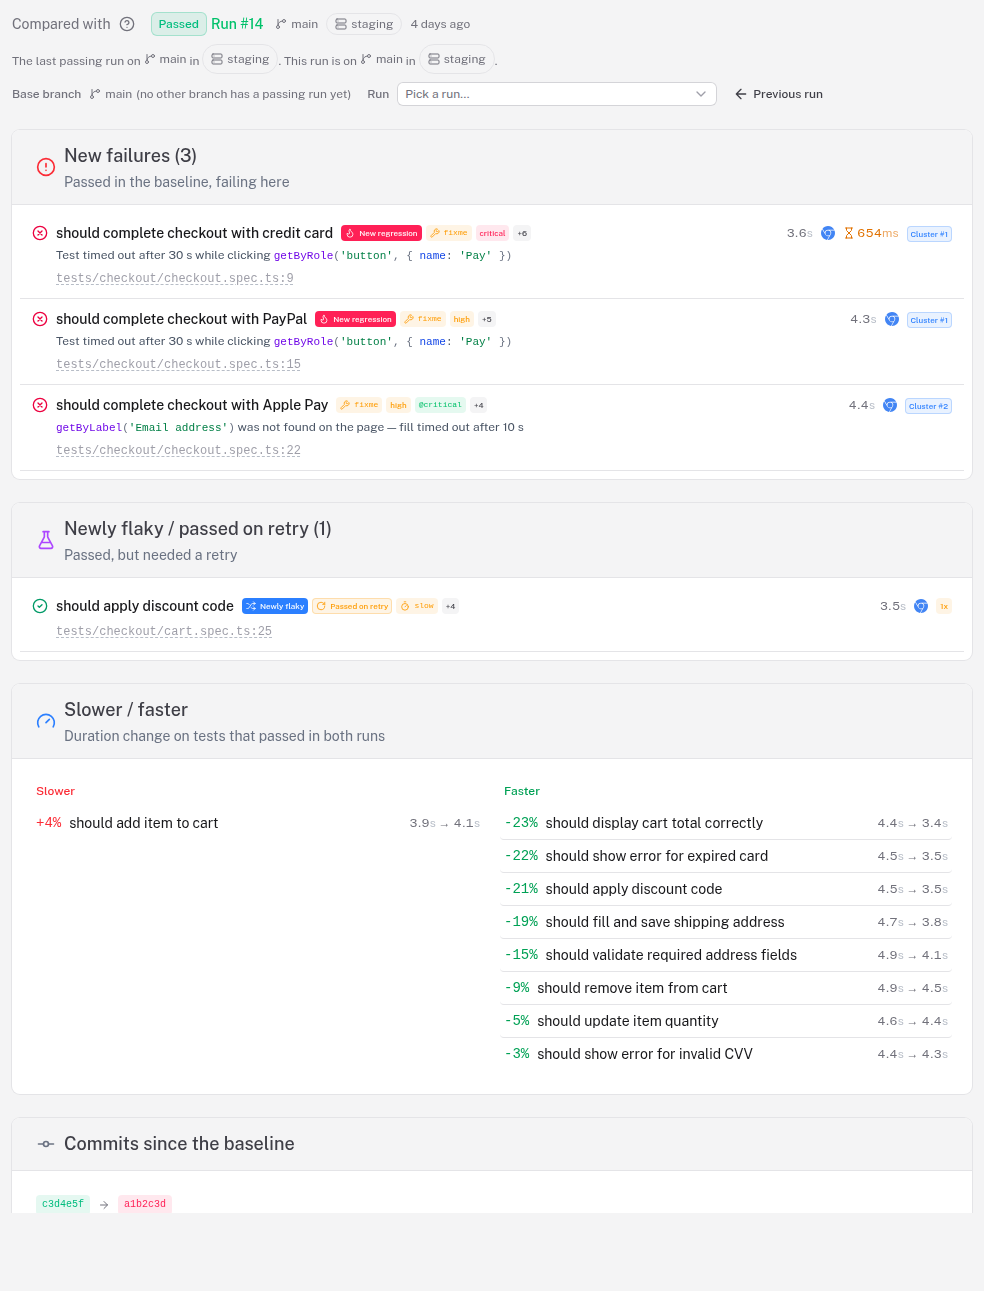
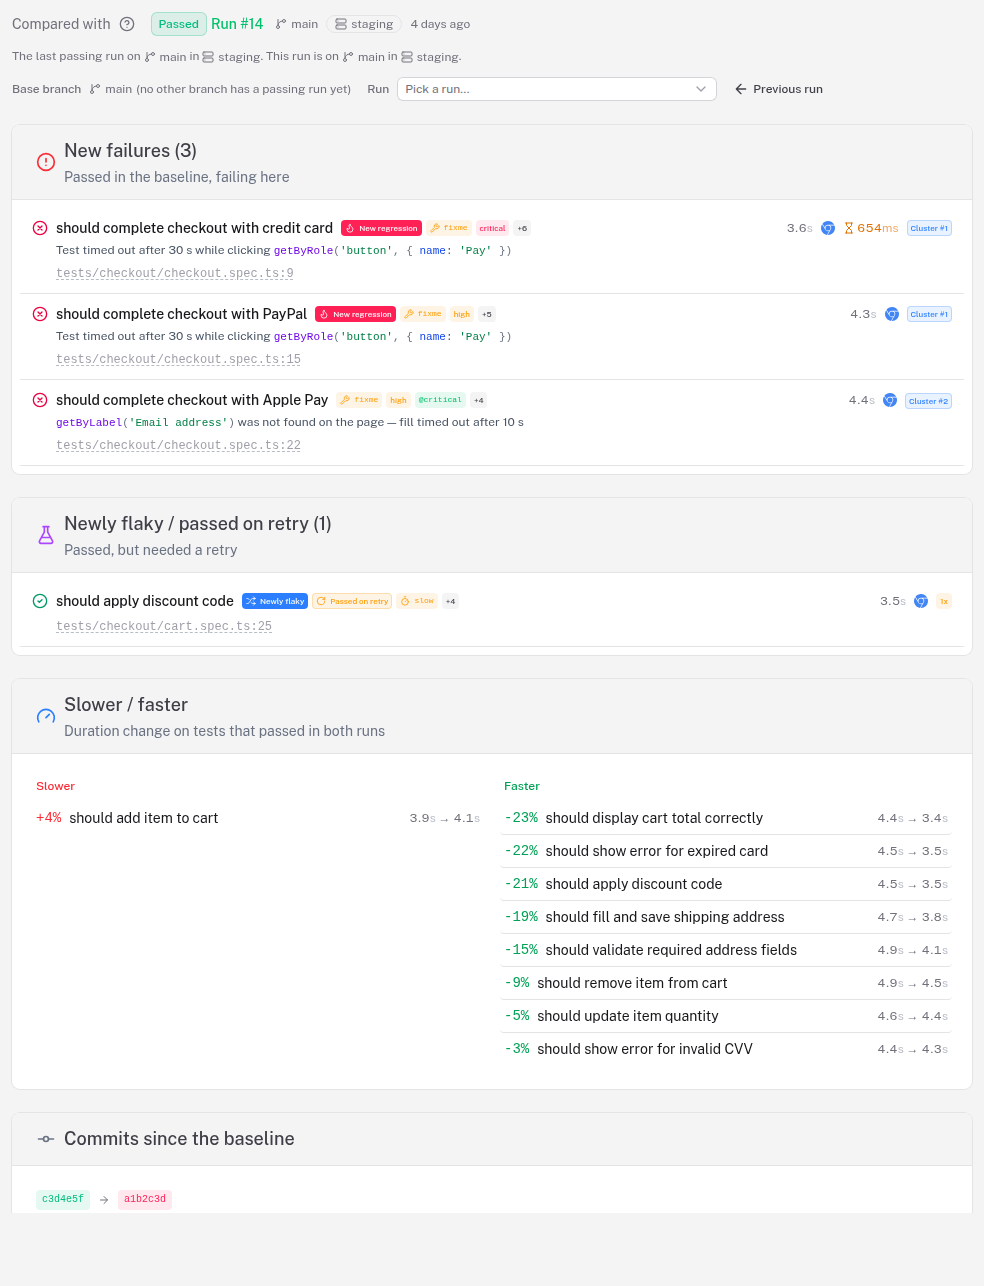
fix(ui): align branch and environment labels inline and copy branch on click
Center the branch and environment labels on the text line (align-middle) so
they stop sitting proud of the surrounding text, and give EnvironmentBadge a
borderless `inline` form used inside the Changes-tab explanation sentence, so
the pill's border no longer breaks the line rhythm or orphans the trailing
period; the outlined pill stays for the structured rows, pickers, tables and
run header. Clicking a branch name now copies it to the clipboard (opt-in
`copyable`, with a check-icon flash and a toast), enabled where the branch is
standalone — the baseline lines, the run header and the execution facts — and
left off inside nav rows and select options.

Claude-Session: https://claude.ai/code/session_017QtmtHPvcNtMF9Lxa1rPZj

diff --git a/apps/application/app/components/run/ChangesView.vue b/apps/application/app/components/run/ChangesView.vue
@@ -255,8 +255,8 @@ function clusterName(tc: TestCaseResult): string | null {
 
     <EmptyState v-else-if="!data?.hasBaseline" icon="i-lucide-git-compare-arrows" text="No baseline run found">
       <p v-if="data?.baseBranch" class="text-sm text-muted max-w-sm text-center">
-        No earlier passing run exists on <BranchLabel :name="data.baseBranch" />. Pick another base branch, or go back
-        to the automatic choice.
+        No earlier passing run exists on <BranchLabel :name="data.baseBranch" copyable />. Pick another base branch, or
+        go back to the automatic choice.
       </p>
       <p v-else class="text-sm text-muted max-w-sm text-center">
         Changes compare this run against the last passing run in the same environment — on the same branch, then the
@@ -308,19 +308,20 @@ function clusterName(tc: TestCaseResult): string | null {
             Run #{{ data.baseline!.id }}
           </NuxtLink>
           <span class="inline-flex flex-wrap items-center gap-x-2 gap-y-1 text-xs text-muted">
-            <BranchLabel :name="data.baseline!.branch" />
+            <BranchLabel :name="data.baseline!.branch" copyable />
             <EnvironmentBadge :name="data.baseline!.environment" />
             <span>{{ formatRelativeTime(data.baseline!.startTime) }}</span>
           </span>
         </div>
         <p class="text-xs text-muted leading-6">
           <template v-for="(part, i) in noteParts" :key="i">
-            <BranchLabel v-if="part.kind === 'branch'" :name="part.name" />
-            <EnvironmentBadge v-else-if="part.kind === 'environment'" :name="part.name" />
+            <BranchLabel v-if="part.kind === 'branch'" :name="part.name" copyable />
+            <EnvironmentBadge v-else-if="part.kind === 'environment'" :name="part.name" inline />
             <template v-else>{{ part.text }}</template>
           </template>
           <template v-if="data.run.branch || data.run.environment">
-            This run is on <BranchLabel :name="data.run.branch" /> in <EnvironmentBadge :name="data.run.environment" />.
+            This run is on <BranchLabel :name="data.run.branch" copyable /> in
+            <EnvironmentBadge :name="data.run.environment" inline />.
           </template>
         </p>
         <div class="flex flex-wrap items-center gap-2">
@@ -346,7 +347,7 @@ function clusterName(tc: TestCaseResult): string | null {
             </template>
           </USelectMenu>
           <span v-else class="inline-flex items-center gap-1 text-xs text-muted">
-            <BranchLabel :name="data.fallbackBranch.branch" /> (no other branch has a passing run yet)
+            <BranchLabel :name="data.fallbackBranch.branch" copyable /> (no other branch has a passing run yet)
           </span>
           <span class="text-xs font-medium text-muted ml-2">Run</span>
           <USelectMenu

diff --git a/apps/application/app/components/shared/BranchLabel.vue b/apps/application/app/components/shared/BranchLabel.vue
@@ -2,22 +2,41 @@
 /**
  * A git branch name, always with the branch icon in front so a branch reads as
  * a branch wherever it appears — a header, a table cell, a sentence, a select.
- * Renders "no branch" (muted) when the run has none.
+ * Renders "no branch" (muted) when the run has none. With `copyable`, the name
+ * is a button that copies it to the clipboard (skip it inside another
+ * clickable, such as a table row or a select option, to avoid nesting).
  */
-defineProps<{
+const props = defineProps<{
   name: string | null | undefined;
   /** Inherit the surrounding text color instead of the default muted icon. */
   inherit?: boolean;
+  /** Make the name click-to-copy. */
+  copyable?: boolean;
 }>();
+
+const { copy, copied } = useCopy();
 </script>
 
 <template>
   <span
-    class="inline-flex items-center gap-1 align-baseline min-w-0 max-w-full"
+    class="inline-flex items-center gap-1 align-middle min-w-0 max-w-full"
     :class="!name && 'text-muted'"
     :title="name ?? undefined"
   >
-    <UIcon name="i-lucide-git-branch" class="size-3 shrink-0" :class="inherit ? '' : 'text-muted'" />
-    <span class="truncate">{{ name ?? 'no branch' }}</span>
+    <UIcon
+      :name="copied ? 'i-lucide-check' : 'i-lucide-git-branch'"
+      class="size-3 shrink-0"
+      :class="copied ? 'text-success' : inherit ? '' : 'text-muted'"
+    />
+    <button
+      v-if="name && copyable"
+      type="button"
+      class="truncate text-left hover:underline decoration-dotted underline-offset-2 cursor-pointer"
+      :title="`Copy ${name}`"
+      @click.stop.prevent="copy(name, { toast: `Copied ${name}` })"
+    >
+      {{ name }}
+    </button>
+    <span v-else class="truncate">{{ name ?? 'no branch' }}</span>
   </span>
 </template>

diff --git a/apps/application/app/components/shared/EnvironmentBadge.vue b/apps/application/app/components/shared/EnvironmentBadge.vue
@@ -1,19 +1,25 @@
 <script setup lang="ts">
 /**
- * A deployment environment label (`production`, `staging`, …) as the outlined
- * pill the run header uses, with the server icon the filter bar pairs with
- * environments — so an environment reads the same wherever it appears.
- * Renders "no environment" (muted) when the run has none.
+ * A deployment environment label (`production`, `staging`, …). By default the
+ * outlined pill the run header uses; with `inline`, a subtle icon + name that
+ * flows inside a sentence without the border breaking the line. Both keep the
+ * server icon the filter bar pairs with environments, so an environment reads
+ * the same everywhere. Renders "no environment" (muted) when the run has none.
  */
 defineProps<{
   name: string | null | undefined;
+  /** Borderless form for use inside flowing text. */
+  inline?: boolean;
 }>();
 </script>
 
 <template>
   <span
-    class="inline-flex items-center gap-1 align-baseline rounded-full border border-default px-2 py-0.5 bg-elevated/60 whitespace-nowrap"
-    :class="!name && 'text-muted'"
+    class="inline-flex items-center gap-1 align-middle whitespace-nowrap"
+    :class="[
+      !name && 'text-muted',
+      !inline && 'rounded-full border border-default px-2 py-0.5 leading-none bg-elevated/60',
+    ]"
   >
     <UIcon name="i-lucide-server" class="size-3 shrink-0 text-muted" />
     {{ name ?? 'no environment' }}

diff --git a/apps/application/app/components/test-case/ExecutionFactsLine.vue b/apps/application/app/components/test-case/ExecutionFactsLine.vue
@@ -139,7 +139,7 @@ defineExpose({ revealRawError });
           </UBadge>
         </template>
       </span>
-      <BranchLabel v-if="scmInfo?.branch" :name="scmInfo.branch" class="max-w-[12rem]" />
+      <BranchLabel v-if="scmInfo?.branch" :name="scmInfo.branch" class="max-w-[12rem]" copyable />
       <a
         v-if="ciInfo?.buildUrl || ciInfo?.buildNumber"
         :href="ciInfo?.buildUrl || undefined"
@@ -173,7 +173,7 @@ defineExpose({ revealRawError });
               Duration: <DurationValue :ms="testCase?.duration" />
             </p>
             <p v-if="scmInfo?.branch">
-              Branch: <BranchLabel :name="scmInfo.branch" class="text-highlighted" inherit />
+              Branch: <BranchLabel :name="scmInfo.branch" class="text-highlighted" inherit copyable />
             </p>
             <p v-if="ciInfo?.buildNumber">Build #{{ ciInfo.buildNumber }}</p>
             <ClientOnly>

diff --git a/apps/application/app/components/run/RunHeader.vue b/apps/application/app/components/run/RunHeader.vue
@@ -216,7 +216,7 @@ function onLabelKeydown(e: KeyboardEvent) {
       </template>
       <template v-if="scm?.branch || scm?.commit || scm?.author">
         <span class="text-dimmed">·</span>
-        <BranchLabel v-if="scm?.branch" :name="scm.branch" inherit />
+        <BranchLabel v-if="scm?.branch" :name="scm.branch" inherit copyable />
         <code
           v-if="scm?.commit"
           class="font-mono bg-zinc-100 dark:bg-zinc-800 px-1 py-0.5 rounded"
